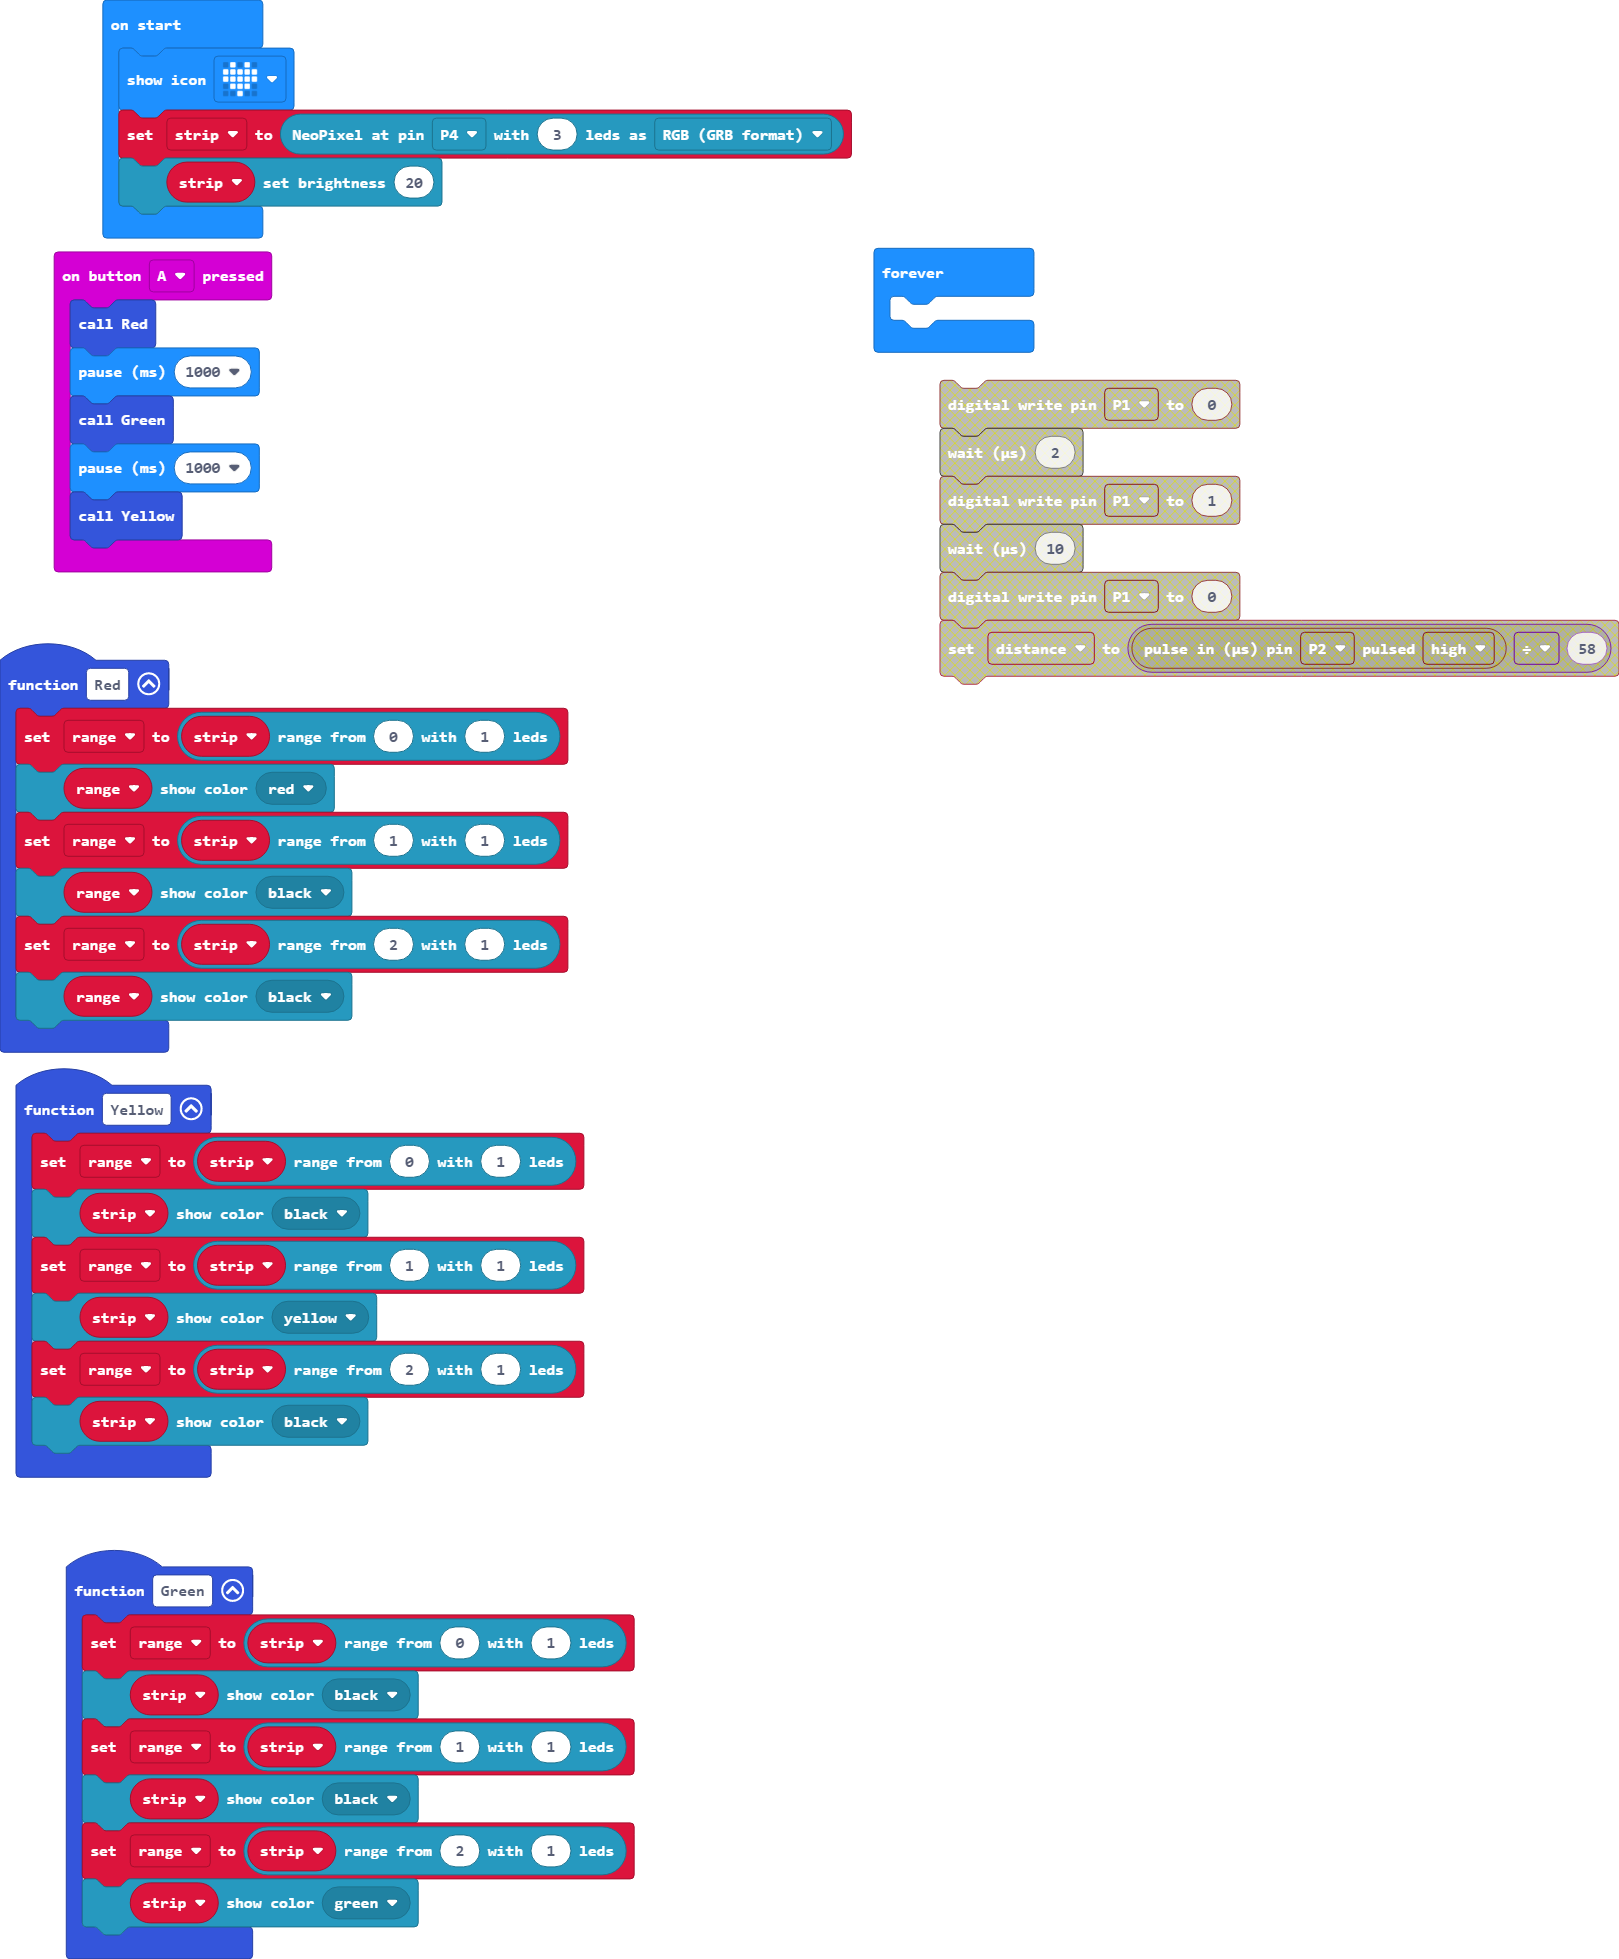
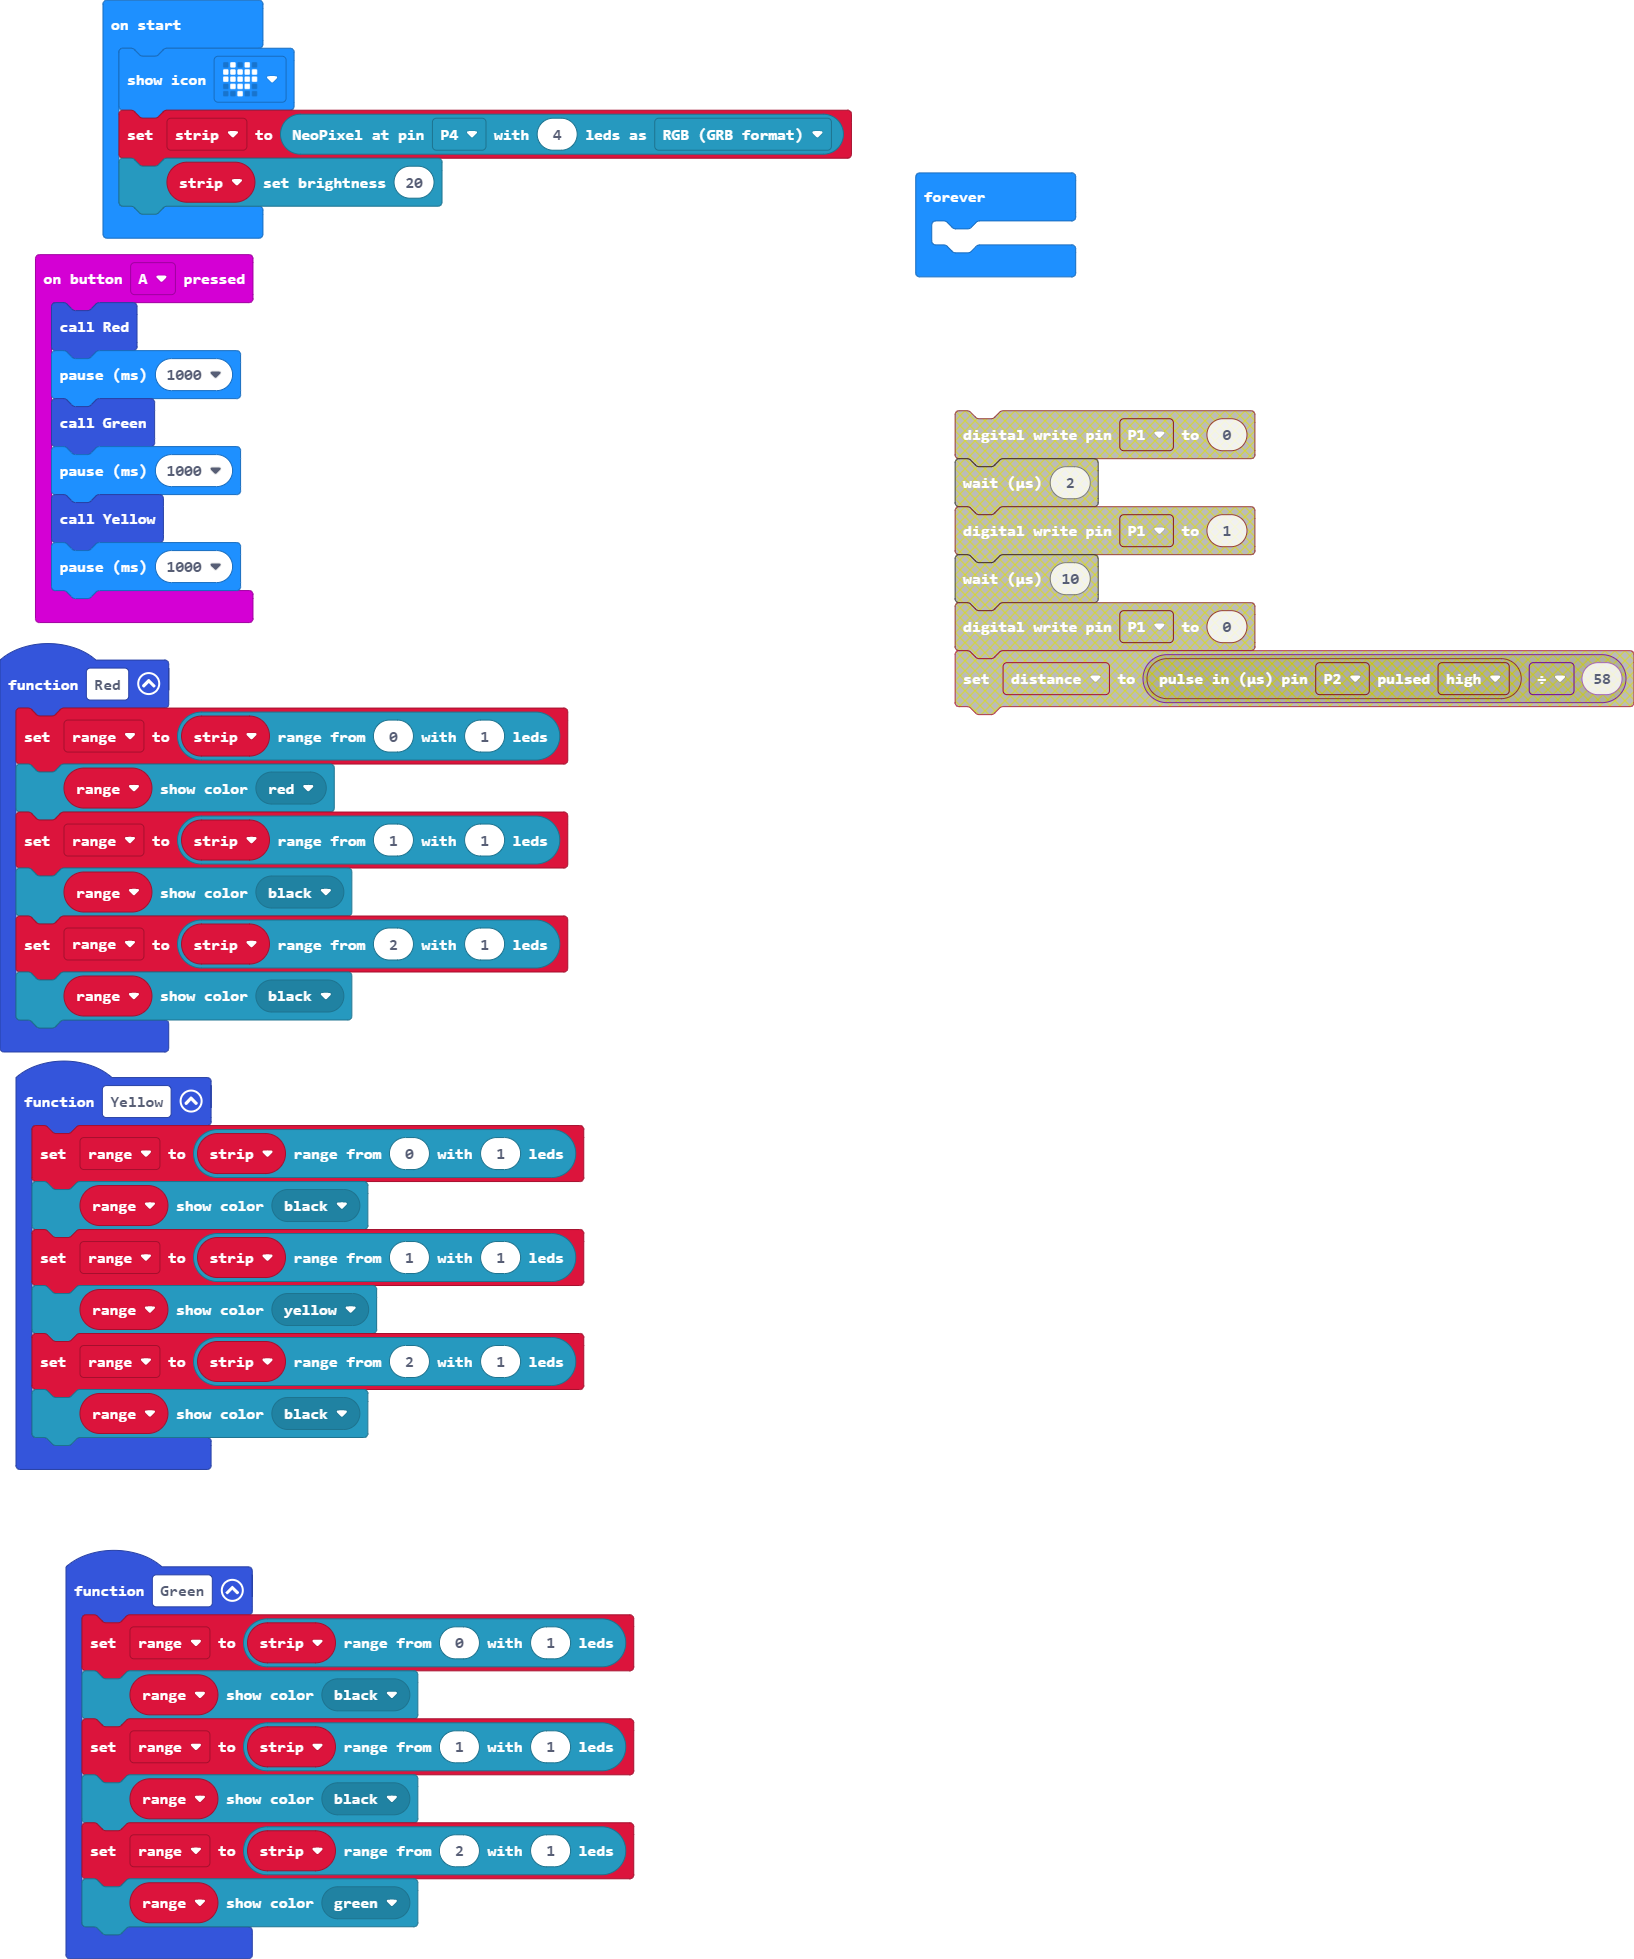
Update main.blocks, main.ts

Changed region(s): [[0.0, 0.0, 0.525, 0.7785], [0.525, 0.0623, 1.0, 0.3737], [0.0309, 0.8096, 0.4015, 0.9964]]

diff --git a/main.ts b/main.ts
@@ -4,22 +4,23 @@ input.onButtonPressed(Button.A, function () {
     Green()
     basic.pause(1000)
     Yellow()
+    basic.pause(1000)
 })
 function Yellow () {
     range = strip.range(0, 1)
-    strip.showColor(neopixel.colors(NeoPixelColors.Black))
+    range.showColor(neopixel.colors(NeoPixelColors.Black))
     range = strip.range(1, 1)
-    strip.showColor(neopixel.colors(NeoPixelColors.Yellow))
+    range.showColor(neopixel.colors(NeoPixelColors.Yellow))
     range = strip.range(2, 1)
-    strip.showColor(neopixel.colors(NeoPixelColors.Black))
+    range.showColor(neopixel.colors(NeoPixelColors.Black))
 }
 function Green () {
     range = strip.range(0, 1)
-    strip.showColor(neopixel.colors(NeoPixelColors.Black))
+    range.showColor(neopixel.colors(NeoPixelColors.Black))
     range = strip.range(1, 1)
-    strip.showColor(neopixel.colors(NeoPixelColors.Black))
+    range.showColor(neopixel.colors(NeoPixelColors.Black))
     range = strip.range(2, 1)
-    strip.showColor(neopixel.colors(NeoPixelColors.Green))
+    range.showColor(neopixel.colors(NeoPixelColors.Green))
 }
 function Red () {
     range = strip.range(0, 1)
@@ -32,7 +33,7 @@ function Red () {
 let range: neopixel.Strip = null
 let strip: neopixel.Strip = null
 basic.showIcon(IconNames.Heart)
-strip = neopixel.create(DigitalPin.P4, 3, NeoPixelMode.RGB)
+strip = neopixel.create(DigitalPin.P4, 4, NeoPixelMode.RGB)
 strip.setBrightness(20)
 basic.forever(function () {
 	
